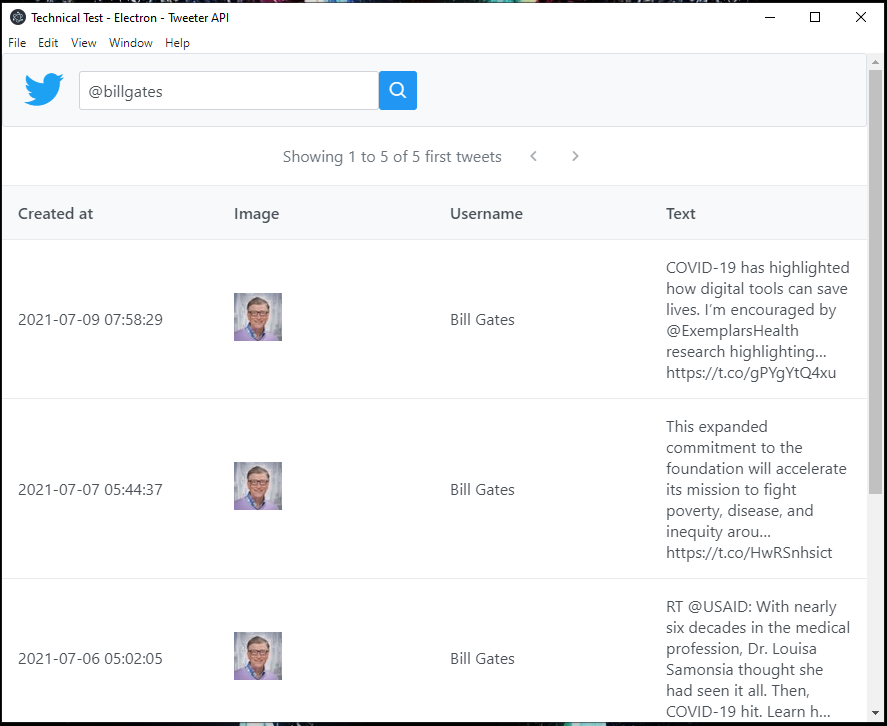
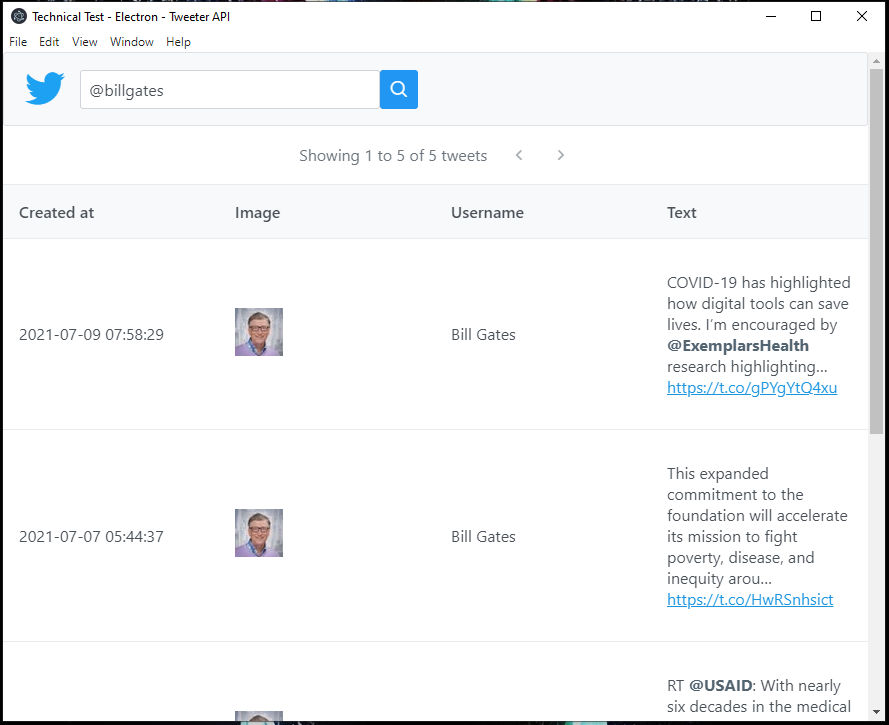
Improvements

diff --git a/src/components/twitter-data-table/twitter-data-table.component.tsx b/src/components/twitter-data-table/twitter-data-table.component.tsx
@@ -42,6 +42,44 @@ export class TwitterDataTable extends React.Component<TwitterDataTableProps, Twi
     private onImageLoadError = (event: any): void => {
         event.target.src='';
     }
+
+    private makeUrlClickables(text: string): string {
+        return (text || '').replace(
+            /([^\S]|^)(((https?\:\/\/)|(www\.))(\S+))/gi,
+            (match: string, space: string, url: string) => {
+                let hyperlink = url;
+                if (!hyperlink.match('^https?:\/\/')) {
+                    hyperlink = 'http://' + hyperlink;
+                }
+                return space + `<a href="${hyperlink}" style="color: rgb(27, 149, 224)" target="_blank">${url}</a>`;
+            }
+        );
+    }
+
+    private stylizeHastags(text: string): string {
+        return (text || '').replace(
+            /(?<=[\s>]|^)#(\w*[A-Za-z_]+\w*)\b(?!;)/gi,
+            (match: string) => {
+                return `<span style="font-style: italic">${match}</span>`;
+            }
+        );
+    }
+
+    private stylizeUsers(text: string): string {
+        return (text || '').replace(
+            /(?<=[\s>]|^)@(\w*[A-Za-z_]+\w*)\b(?!;)/gi,
+            (match: string) => {
+                return `<span style="color: rgb(83, 100, 113); font-weight: bold">${match}</span>`;
+            }
+        );
+    }
+
+    private stylizeTweetText(text: string): string {
+        let htmlTxt: string = this.makeUrlClickables(text);
+        htmlTxt = this.stylizeHastags(htmlTxt);
+        htmlTxt = this.stylizeUsers(htmlTxt);
+        return htmlTxt;
+    }
     
     render(): ReactElement {
         const { loading, tweets, rowsPerPage } = this.state;
@@ -54,17 +92,21 @@ export class TwitterDataTable extends React.Component<TwitterDataTableProps, Twi
             return <img src={rowData.user.profile_image_url} onError={this.onImageLoadError} />;
         }
 
+        const textBodyTemplate = (rowData: StatusDTO): ReactElement => {
+            return <p dangerouslySetInnerHTML={{__html: this.stylizeTweetText(rowData.text)}}></p>
+        }
+
         return (
             <div className="datatable-tweets">
                 <div className="card">
                     <DataTable loading={loading} value={tweets} emptyMessage="No tweets found" paginator={true}
                             paginatorPosition='top' paginatorTemplate="CurrentPageReport PrevPageLink NextPageLink"
-                            currentPageReportTemplate="Showing {first} to {last} of {totalRecords} first tweets" 
+                            currentPageReportTemplate="Showing {first} to {last} of {totalRecords} tweets" 
                             rows={rowsPerPage}>
                         <Column body={createdAtBodyTemplate} header="Created at"></Column>
                         <Column body={imageBodyTemplate} header="Image"></Column>
                         <Column field="user.name" header="Username"></Column>
-                        <Column field="text" header="Text"></Column>
+                        <Column body={textBodyTemplate} header="Text"></Column>
                     </DataTable>
                 </div>
             </div>
